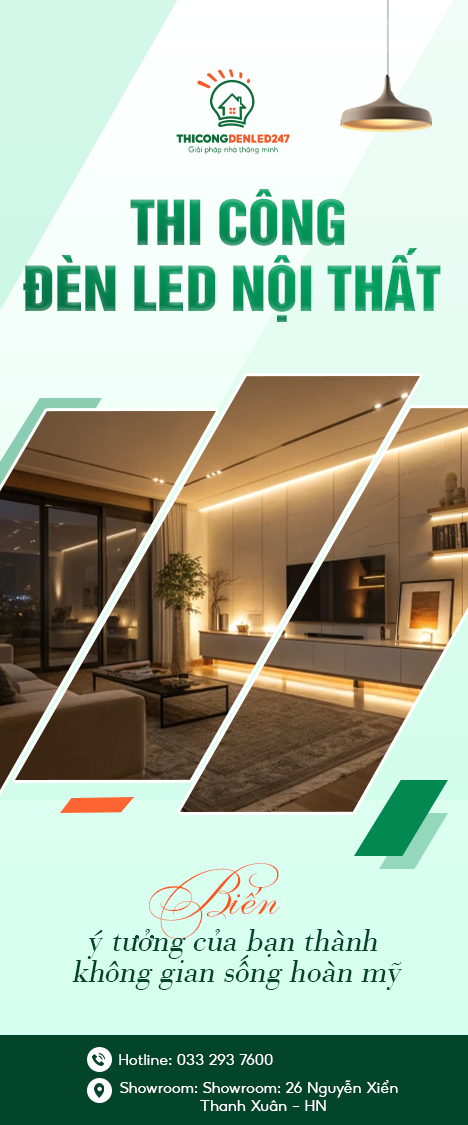
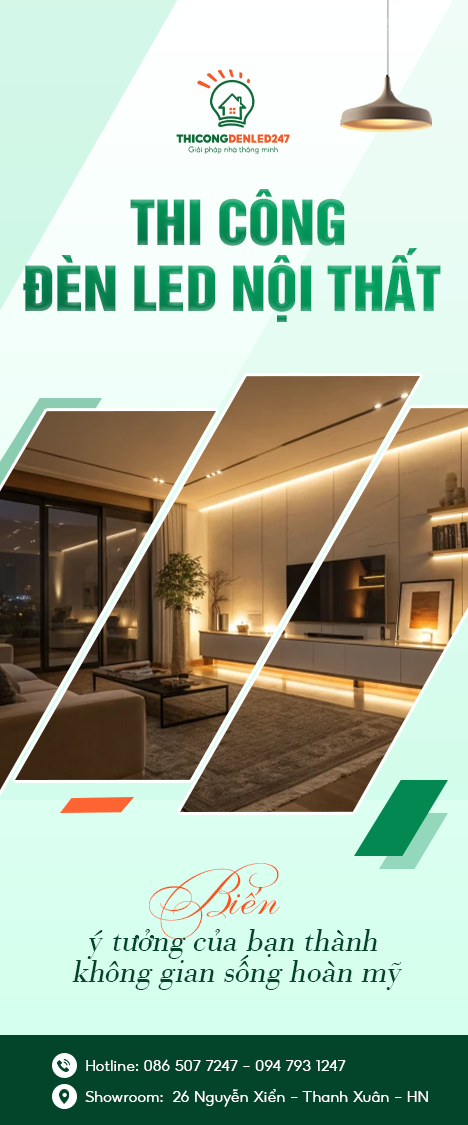
- fix hotline

Changed region(s): [[0.0897, 0.9333, 0.8376, 0.9956], [0.8675, 0.9644, 0.9274, 0.9956]]

diff --git a/src/components/support/LeftSupport.vue b/src/components/support/LeftSupport.vue
@@ -3,20 +3,20 @@
         <div class="left-support--zalo">
             <div class="left-support--zalo__fill"></div>
             <div class="left-support--zalo__circle">
-                <a href="https://zalo.me/0332937600" target="_blank">
-                    <img src="@/assets/images/ico/ico-zalo.png" alt="https://zalo.me/0332937600">
+                <a href="https://zalo.me/0865077247" target="_blank">
+                    <img src="@/assets/images/ico/ico-zalo.png" alt="https://zalo.me/0865077247">
                 </a>
             </div>
         </div>
         <div class="left-support--phone">
             <div class="left-support--phone__fill"></div>
             <div class="left-support--phone__circle">
-                <a href="tel:0332937600">
-                    <img src="@/assets/images/ico/ico-phone-white.png" alt="0332937600">
+                <a href="tel:0865077247">
+                    <img src="@/assets/images/ico/ico-phone-white.png" alt="0865077247">
                 </a>
             </div>
 
-            <div class="left-support--phone__number">0332937600</div>
+            <div class="left-support--phone__number">0865077247</div>
         </div>
     </div>
 </template>

diff --git a/src/components/footer/Footer.vue b/src/components/footer/Footer.vue
@@ -23,7 +23,7 @@
                         <img src="@/assets/images/ico/ico-email.svg" alt="email">
                     </a>
 
-                    <a href="tel:+84332937600" class="contact--item phone">
+                    <a href="tel:+84865077247" class="contact--item phone">
                         <img src="@/assets/images/ico/ico-phone.svg" alt="phone">
                     </a>
                 </div>

diff --git a/src/components/header/Header.vue b/src/components/header/Header.vue
@@ -22,7 +22,7 @@
                     <img src="@/assets/images/ico/ico-email.svg" alt="email">
                 </a>
 
-                <a class="header__contact--item" href="tel:+84332937600">
+                <a class="header__contact--item" href="tel:+84865077247">
                     <img src="@/assets/images/ico/ico-phone.svg" alt="phone">
                 </a>
             </div>

diff --git a/src/components/popup/HeaderPopupMb.vue b/src/components/popup/HeaderPopupMb.vue
@@ -16,7 +16,7 @@
                 <img src="@/assets/images/ico/ico-email.svg" alt="email">
             </a>
 
-            <a class="popup-mb--contact--item" href="tel:+84332937600">
+            <a class="popup-mb--contact--item" href="tel:+84865077247">
                 <img src="@/assets/images/ico/ico-phone.svg" alt="phone">
             </a>
         </div>
